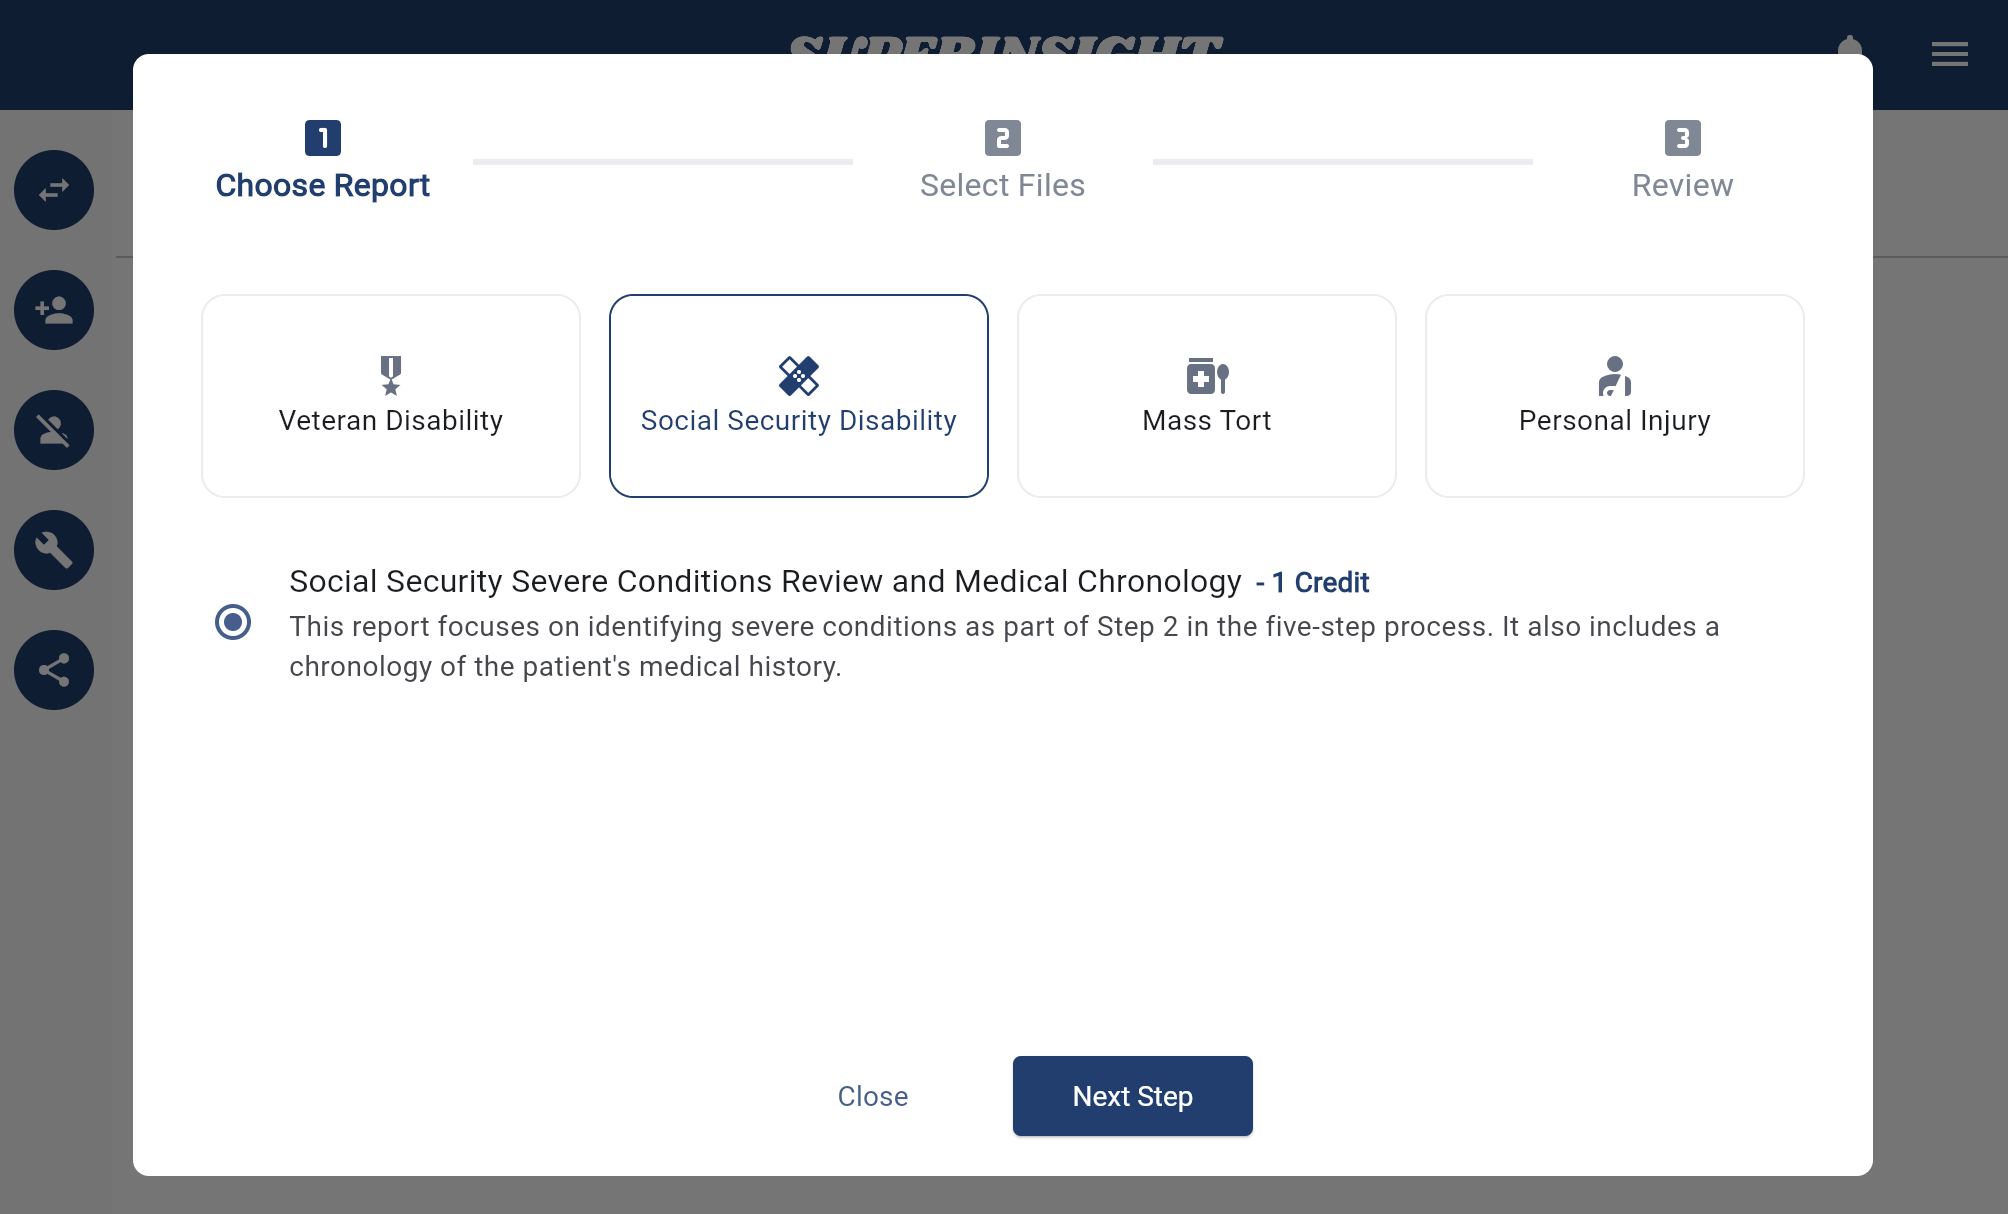
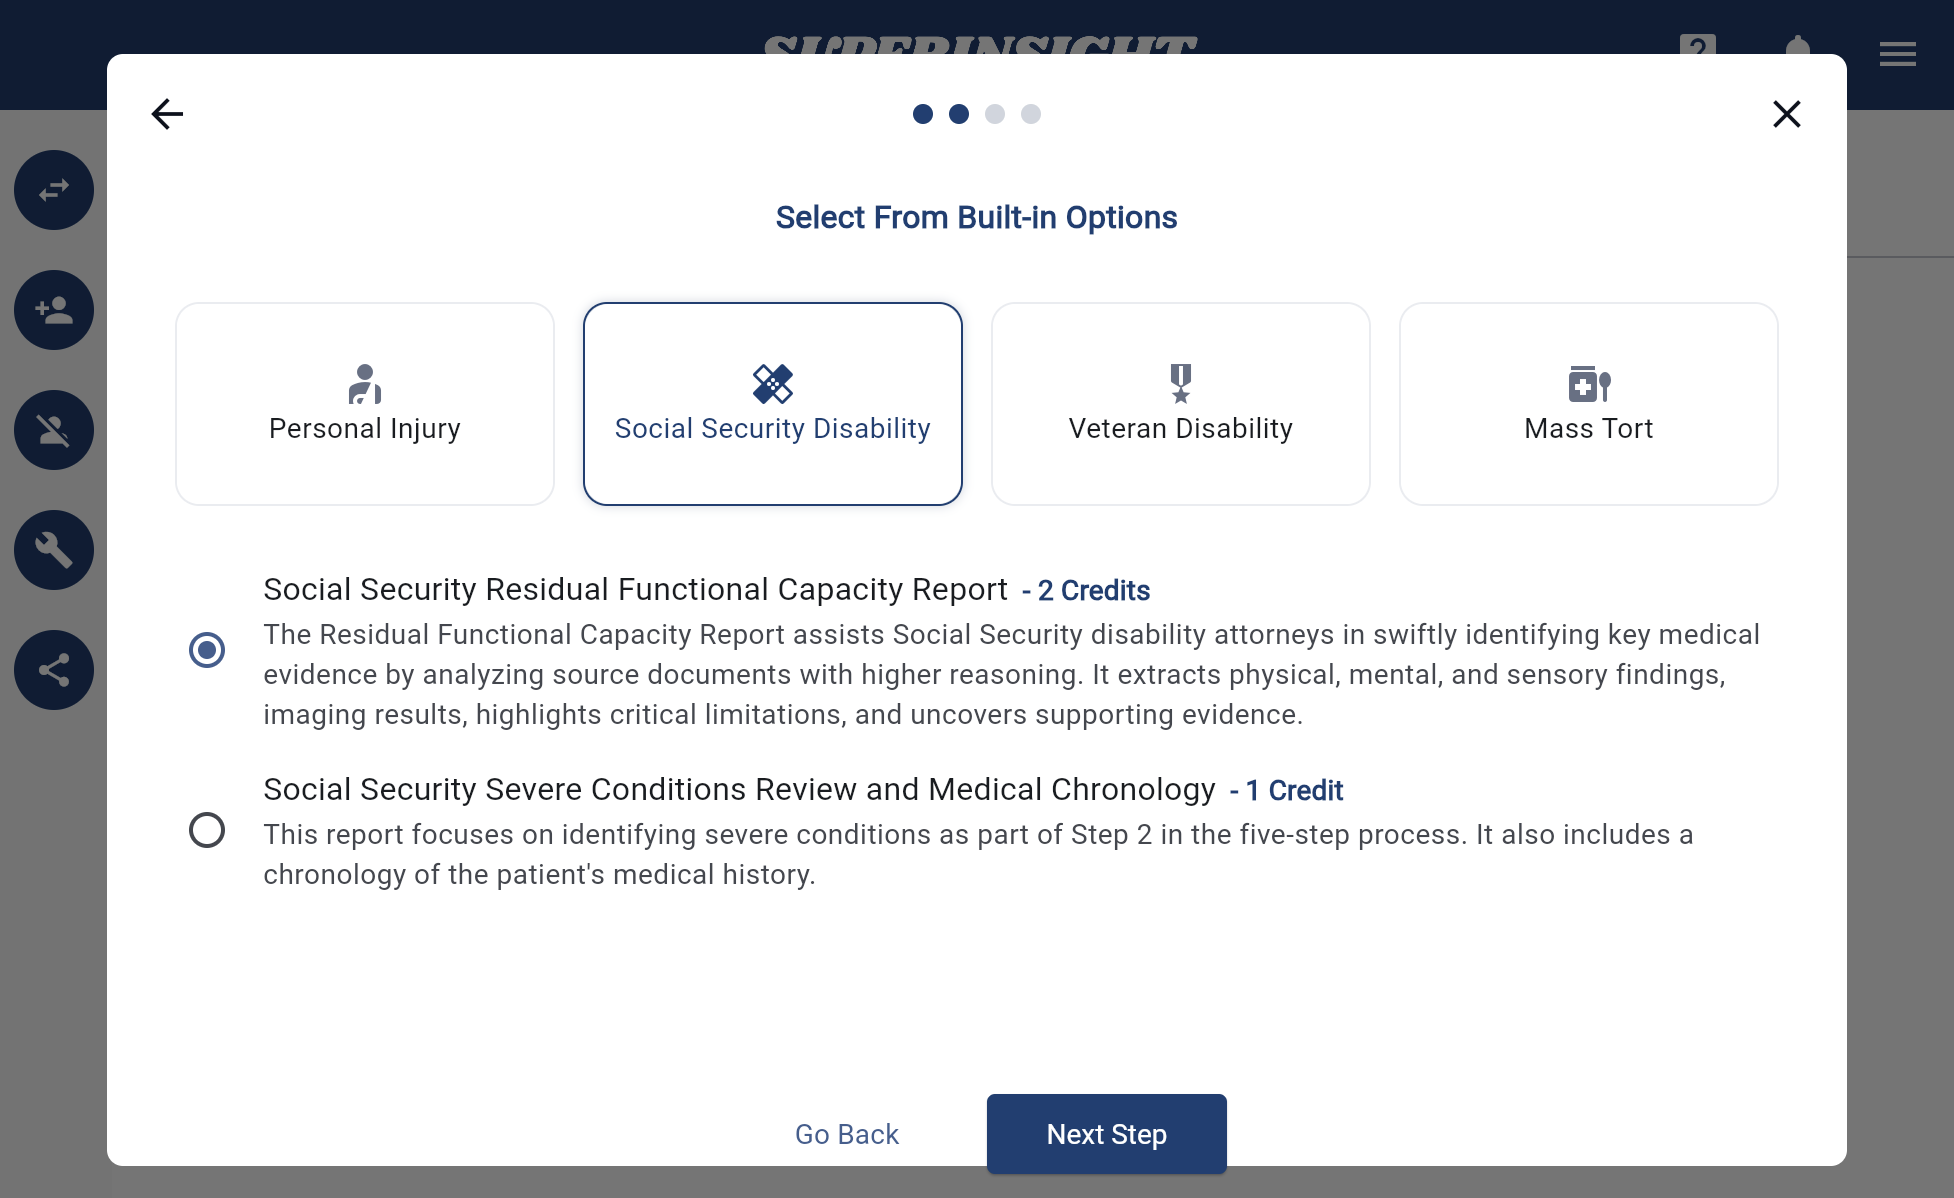
feature-update-feb-25

diff --git a/guide/case-report/index.html b/guide/case-report/index.html
@@ -735,14 +735,16 @@
 <div><h1 id="manage-report">Manage Report</h1>
 <h2 id="build-a-report">Build a Report</h2>
 <p>Besides real-time file analysis, Superinsight allows you to select multiple files and generate a complex report that helps you significantly reduce time you spend on reading tons of paper and get your claim way more efficiently.</p>
-<p>Simply click on the "Build Report" button on the left and select all the files you want to be included in reports Superinsight supported. Before you submit to generate, make sure your file list is correct!</p>
+<p>Simply click on the "Build Report" button on the left, choose the way you want to build, and select all the files you want to be included in reports that Superinsight supports. Before you submit to generate, make sure your file list is correct!</p>
 <p><img alt="Build a Report" src="../../assets/images/tutorial/build-report.png"></p>
-<p>Select the report types that you want to build. Now we offer 4 types of report, including:</p>
+<p>Before you build the report, you can either choose the build-in options that Superinsight made for you or use your own prompts to generate the specific reports.</p>
+<p><img alt="Building Ways" src="../../assets/images/tutorial/ways-to-build.png"></p>
+<p>Now we offer 4 types of report, including:</p>
 <ul>
-<li>Veteran Disability</li>
-<li>Social Security Disability</li>
-<li>Mass Tort</li>
 <li>Personal Injury</li>
+<li>Social Security Disability</li>
+<li>Veteran Disability</li>
+<li>Mass Tort (Build-in only)</li>
 </ul>
 <div class="admonition tip">
 <p class="admonition-title">Tip</p>
@@ -750,23 +752,26 @@
 <p>If you need a sample report, please click <a href="../sample-report/">HERE</a></p>
 </div>
 <p>Each report costs 1-5 credits, based on required resources. If you need extra credits, <a href="mailto:help@superinsight.ai">contact us</a> to purchase <strong>6 credits for $250</strong> or <strong>18 credits for $500</strong>.</p>
-<div class="tabbed-set tabbed-alternate" data-tabs="1:4"><input checked id="__tabbed_1_1" name="__tabbed_1" type="radio"><input id="__tabbed_1_2" name="__tabbed_1" type="radio"><input id="__tabbed_1_3" name="__tabbed_1" type="radio"><input id="__tabbed_1_4" name="__tabbed_1" type="radio"><div class="tabbed-labels"><label for="__tabbed_1_1">Veteran Disability</label><label for="__tabbed_1_2">Social Security Disability</label><label for="__tabbed_1_3">Mass Tort</label><label for="__tabbed_1_4">Personal Injury</label></div>
+<p>If you choose <strong>Build My Own Report</strong>, each report type offers three templates that you can freely edit and customize with your own prompts based on your habits or scenarios.</p>
+<p><img alt="Build My Own Report" src="../../assets/images/tutorial/free-prompts.png"></p>
+<p>If you choose <strong>Select From Build-in Options</strong>, then you can select types of report by practice areas.</p>
+<div class="tabbed-set tabbed-alternate" data-tabs="1:4"><input checked id="__tabbed_1_1" name="__tabbed_1" type="radio"><input id="__tabbed_1_2" name="__tabbed_1" type="radio"><input id="__tabbed_1_3" name="__tabbed_1" type="radio"><input id="__tabbed_1_4" name="__tabbed_1" type="radio"><div class="tabbed-labels"><label for="__tabbed_1_1">Personal Injury</label><label for="__tabbed_1_2">Social Security Disability</label><label for="__tabbed_1_3">Veteran Disability</label><label for="__tabbed_1_4">Mass Tort</label></div>
 <div class="tabbed-content">
 <div class="tabbed-block">
-<p>CFile report covers all the information you need while helping veterans, including deep analysis of Rating Decisions, Service Treatment Records, Post Service Medical Records and more.</p>
-<p><img alt="Veteran Disability" src="../../assets/images/tutorial/report-type-va.png"></p>
+<p>Reveal various medical procedures and provides corresponding ICD codes.</p>
+<p><img alt="Personal Injury" src="../../assets/images/tutorial/report-type-pi.png"></p>
 </div>
 <div class="tabbed-block">
 <p>Summary key points of claimant information according to objective analysis provided by physicians. Such as severe impairments, imaging results, medication, medical chronology, etc.</p>
 <p><img alt="Social Security Disability" src="../../assets/images/tutorial/report-type-ssd.png"></p>
 </div>
 <div class="tabbed-block">
-<p>Uncover medical conditions that are related to Camp Lejeune &amp; Water Contamination.</p>
-<p><img alt="Mass Tort" src="../../assets/images/tutorial/report-type-mt.png"></p>
+<p>CFile report covers all the information you need while helping veterans, including deep analysis of Rating Decisions, Service Treatment Records, Post Service Medical Records and more.</p>
+<p><img alt="Veteran Disability" src="../../assets/images/tutorial/report-type-va.png"></p>
 </div>
 <div class="tabbed-block">
-<p>Reveal various medical procedures and provides corresponding ICD codes.</p>
-<p><img alt="Personal Injury" src="../../assets/images/tutorial/report-type-pi.png"></p>
+<p>Uncover medical conditions that are related to Camp Lejeune &amp; Water Contamination.</p>
+<p><img alt="Mass Tort" src="../../assets/images/tutorial/report-type-mt.png"></p>
 </div>
 </div>
 </div>
@@ -781,17 +786,8 @@
 </div>
 </div>
 </div>
-<p>Confirm all your selections and submit. If you're building <strong>Veteran Disability Report</strong> please make sure you label all your files well.</p>
-<div class="tabbed-set tabbed-alternate" data-tabs="3:2"><input checked id="__tabbed_3_1" name="__tabbed_3" type="radio"><input id="__tabbed_3_2" name="__tabbed_3" type="radio"><div class="tabbed-labels"><label for="__tabbed_3_1">Confirm &amp; Submit</label><label for="__tabbed_3_2">VA File Type Confirm</label></div>
-<div class="tabbed-content">
-<div class="tabbed-block">
+<p>Confirm all your selections before you submit to build.</p>
 <p><img alt="Confirm &amp; Submit" src="../../assets/images/tutorial/submit-file.png"></p>
-</div>
-<div class="tabbed-block">
-<p><img alt="File Type" src="../../assets/images/tutorial/submit-file-va.png"></p>
-</div>
-</div>
-</div>
 <p>After files are submitted, you will see the unclickable report in the "Reports" tab building behind the scenes. Once it is complete, it will turn black with the download icon, then you can download and check your reports anytime you want.</p>
 <p><img alt="Report List" src="../../assets/images/tutorial/report-list.png"></p>
 <h2 id="download-reports">Download Reports</h2>
@@ -799,7 +795,7 @@
 <p><img alt="Download Report" src="../../assets/images/tutorial/report-download.png"></p>
 <p>In PDF format, Superinsight will combine the report and the original files so that you can easily find the critical evidence after you click on the table of contents we provided, and we will add the bookmarks for you as well.</p>
 <p>In CSV format, Superinsight lists all the impairment issues row by row so you can easily find them and link with the source documents.</p>
-<div class="tabbed-set tabbed-alternate" data-tabs="4:2"><input checked id="__tabbed_4_1" name="__tabbed_4" type="radio"><input id="__tabbed_4_2" name="__tabbed_4" type="radio"><div class="tabbed-labels"><label for="__tabbed_4_1">PDF Report</label><label for="__tabbed_4_2">CSV Report</label></div>
+<div class="tabbed-set tabbed-alternate" data-tabs="3:2"><input checked id="__tabbed_3_1" name="__tabbed_3" type="radio"><input id="__tabbed_3_2" name="__tabbed_3" type="radio"><div class="tabbed-labels"><label for="__tabbed_3_1">PDF Report</label><label for="__tabbed_3_2">CSV Report</label></div>
 <div class="tabbed-content">
 <div class="tabbed-block">
 <p><img alt="PDF Report" src="../../assets/images/tutorial/report-pdf.png"></p>
@@ -812,7 +808,7 @@
 <h2 id="delete-reports">Delete Reports</h2>
 <p>In the "Report Tab", you can see all the reports are listed here and every report has a "Delete Report" button.</p>
 <p>You can easily delete any report by clicking the button and confirm.</p>
-<div class="tabbed-set tabbed-alternate" data-tabs="5:2"><input checked id="__tabbed_5_1" name="__tabbed_5" type="radio"><input id="__tabbed_5_2" name="__tabbed_5" type="radio"><div class="tabbed-labels"><label for="__tabbed_5_1">Delete Report Button</label><label for="__tabbed_5_2">Confirm Delete</label></div>
+<div class="tabbed-set tabbed-alternate" data-tabs="4:2"><input checked id="__tabbed_4_1" name="__tabbed_4" type="radio"><input id="__tabbed_4_2" name="__tabbed_4" type="radio"><div class="tabbed-labels"><label for="__tabbed_4_1">Delete Report Button</label><label for="__tabbed_4_2">Confirm Delete</label></div>
 <div class="tabbed-content">
 <div class="tabbed-block">
 <p><img alt="Delete Report" src="../../assets/images/tutorial/delete-report-1.png"></p>

diff --git a/guide/release-notes/index.html b/guide/release-notes/index.html
@@ -558,6 +558,15 @@
       <ul class="md-nav__list">
         
           <li class="md-nav__item">
+  <a href="#february-20-2025-released" class="md-nav__link">
+    <span class="md-ellipsis">
+      February 20, 2025 Released
+    </span>
+  </a>
+  
+</li>
+        
+          <li class="md-nav__item">
   <a href="#january-13-2025-released" class="md-nav__link">
     <span class="md-ellipsis">
       January 13, 2025 Released
@@ -714,6 +723,15 @@
       <ul class="md-nav__list">
         
           <li class="md-nav__item">
+  <a href="#february-20-2025-released" class="md-nav__link">
+    <span class="md-ellipsis">
+      February 20, 2025 Released
+    </span>
+  </a>
+  
+</li>
+        
+          <li class="md-nav__item">
   <a href="#january-13-2025-released" class="md-nav__link">
     <span class="md-ellipsis">
       January 13, 2025 Released
@@ -763,6 +781,28 @@
 <div><h1 id="release-notes">Release Notes</h1>
 <h2 id="overview">Overview</h2>
 <p>Release notes provide the list of items on feature changes, known issues, fixes, workarounds, and deprecations for recent software releases.</p>
+<hr>
+<h4 id="february-20-2025-released">February 20, 2025 Released</h4>
+<ul>
+<li>
+<p>Live Help feature added.</p>
+</li>
+<li>
+<p>Support building reports with custom prompts.</p>
+</li>
+<li>
+<p>Veteran Disability Report enhancement.</p>
+</li>
+<li>
+<p>Social Security Disability Report enhancement.</p>
+</li>
+<li>
+<p>Personal Injury Report enhancement.</p>
+</li>
+<li>
+<p>System optimized.</p>
+</li>
+</ul>
 <hr>
 <h4 id="january-13-2025-released">January 13, 2025 Released</h4>
 <ul>

diff --git a/guide/index.html b/guide/index.html
@@ -684,7 +684,9 @@
 <td>Set up your cases' access permission</td>
 </tr>
 </tbody>
-</table></div>
+</table>
+<p>If you are still confused after this guide, feel free to contact us on our <strong>Live Help</strong>.</p>
+<p><img alt="Live Help" src="../assets/images/tutorial/live-help.png"></p></div>
 
 
 
